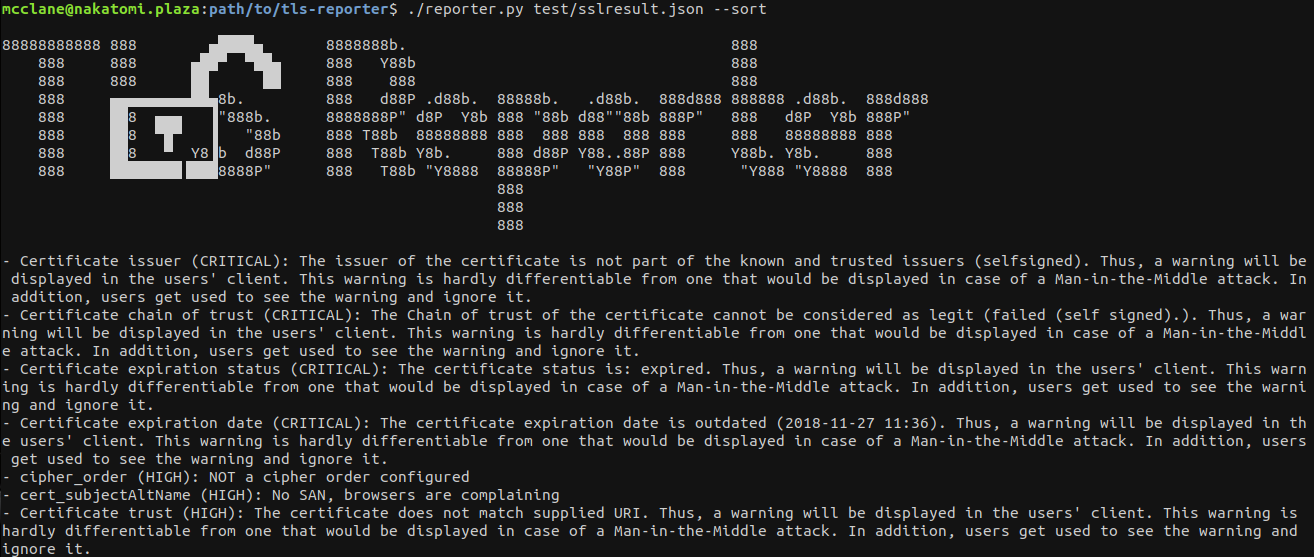
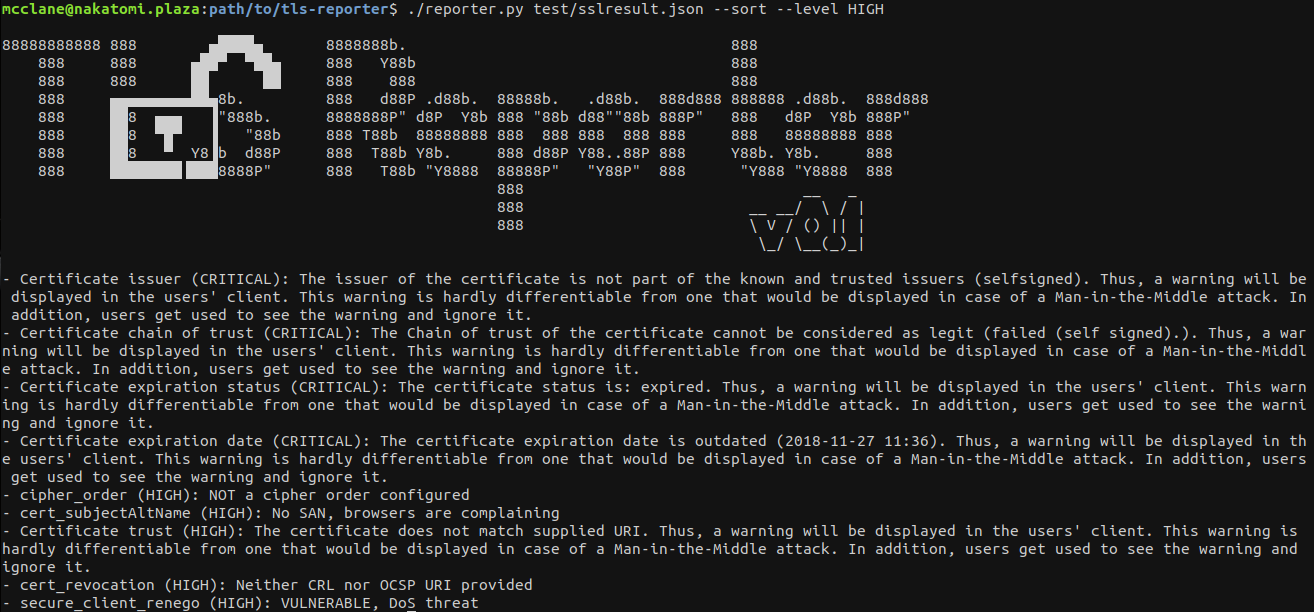
v0.1

Changed region(s): [[0.0, 0.061, 0.9985, 1.0], [0.0, 0.0, 0.6865, 0.3357]]

diff --git a/reporter.py b/reporter.py
@@ -13,6 +13,8 @@ import sys
 
 
 def printBanner():
+    """Print the program banner in the standard output
+    """
     banner = ('88888888888 888        ▄████▄       8888888b.                  '
               '                  888                    \n'
               '    888     888      ▄██▀  ▀██▄     888   Y88b                 '
@@ -30,16 +32,19 @@ def printBanner():
               '    888     ████████▐███8888P"      888   T88b "Y8888  88888P" '
               '  "Y88P"  888      "Y888 "Y8888  888     \n'
               '                                                       888     '
-              '                                         \n'
+              '                          __   _         \n'
               '                                                       888     '
-              '                                         \n'
+              '                    __ __/  \\ / |        \n'
               '                                                       888     '
-              '                                         \n')
+              '                    \\ V / () || |        \n'
+              '                                                               '
+              '                     \\_/ \\__(_)_|        \n')
     print("\n%s" % banner)
 
 
 def parseArguments():
     """Parse commandline arguments.
+    Returns an argparse.ArgumentParser object.
     """
     prog = 'reporter.py'
     description = ('A simple testssl result parser for report redactors. '
@@ -63,6 +68,7 @@ def parseArguments():
 
 def processObj(obj, defs, level, minLevel):
     """Process an object of the findings list.
+    Returns a dictionary containing "severity" and "detail".
     """
     for definition in defs:
         if definition["id"].lower() == obj["id"].lower():
@@ -70,6 +76,8 @@ def processObj(obj, defs, level, minLevel):
                or minLevel == "OK"):
                 return {"severity": obj["severity"],
                         "detail": definition["detail"] % obj}
+
+    # definition not found
     return {"severity": "ERROR",
             "detail": "[ERROR] No definition entry for: %s" % obj["id"]}
 
@@ -77,33 +85,35 @@ def processObj(obj, defs, level, minLevel):
 def main():
     """Main function of the program.
     """
-    options = parseArguments()
-    printBanner()
+    options = parseArguments()  # Retrieve arguments
+    printBanner()               # Print the banner
     infile = options.infile
     outfile = options.outfile
     sort = options.sort
     minLevel = options.level
-    definitions = open("definitions.json", "r")
+    definitions = open("definitions.json", "r")     # Open the definitions file
     level = {"OK": -1, "INFO": 0, "WARN": 1, "LOW": 2, "MEDIUM": 3, "HIGH": 4,
              "CRITICAL": 5, "ERROR": 6}
-    vulns = []
+    vulns = []  # Initialize the list of vulnerabilities to report
 
     with infile, outfile:
         try:
-            objs = (json.load(infile), )[0]
-            defs = (json.load(definitions), )[0]
+            objs = (json.load(infile), )[0]         # List of dictionaries
+            defs = (json.load(definitions), )[0]    # List of dictionaries
 
-            for obj in objs:
-                if level[minLevel] <= level[obj["severity"]]:
+            for obj in objs:    # foreach vulnerability scanned
+                if level[minLevel] <= level[obj["severity"]]:   # --level test
+                    # process the vulnerability and add it to the reported ones
                     vulns.append(processObj(obj, defs, level, minLevel))
-            if sort:
+
+            if sort:    # --sort implementation
                 tmp = []
-                for i in range(6, -2, -1):
+                for i in range(6, -2, -1):  # foreach severity descending
                     j = 0
-                    while j < len(vulns):
+                    while j < len(vulns):   # foreach vulnerability reported
                         if level[vulns[j]["severity"]] >= i:
                             tmp.append(vulns[j])
-                            vulns.pop(j)
+                            vulns.pop(j)    # remove for performance
                         else:
                             j += 1
                 vulns = tmp

diff --git a/README.md b/README.md
@@ -7,7 +7,7 @@ This script is meant to generate a vulnerability description that can be copied 
 
 Simply use the `--jsonfile` option when running testssl and put the created file as a program argument.
 
-![sort.png](doc/sort.png "Simple example with wulnerabilities sorted by severity")
+![sort.png](doc/sort.png "Simple example with vulnerabilities sorted by severity")
 
 ## Features
 
